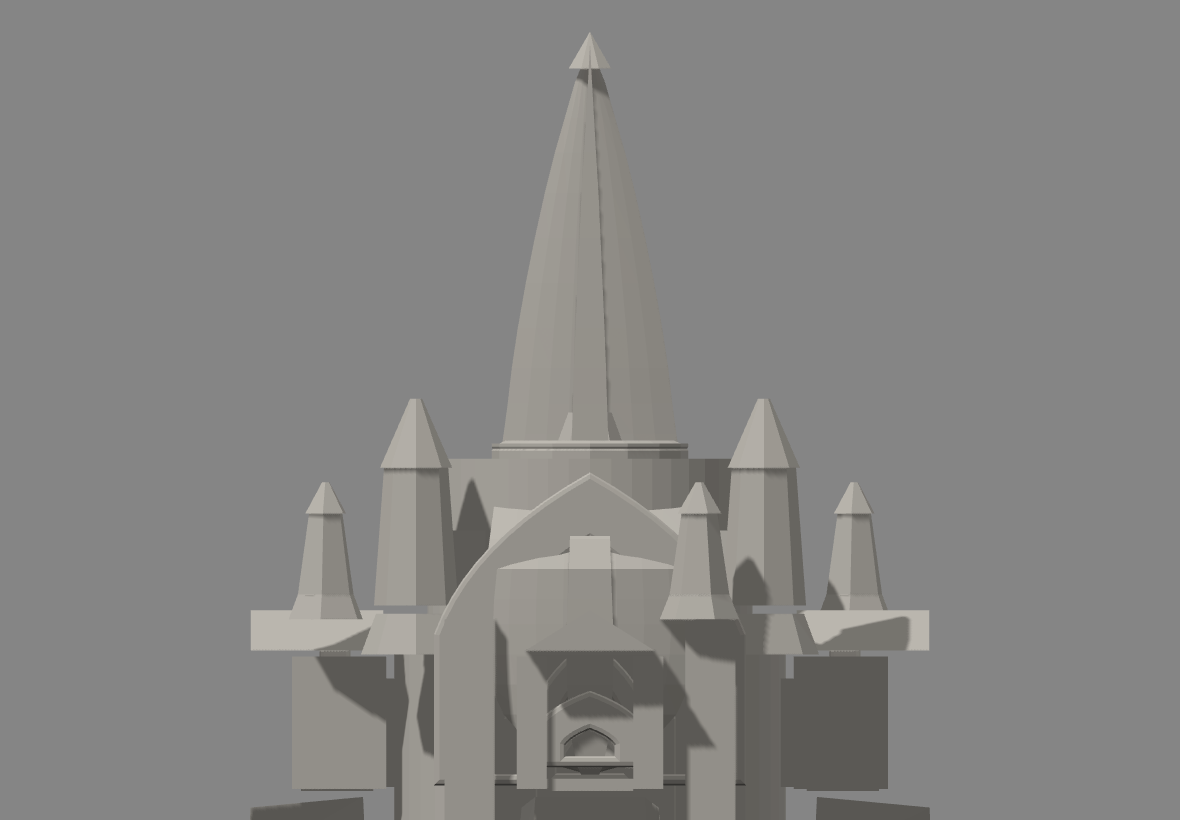
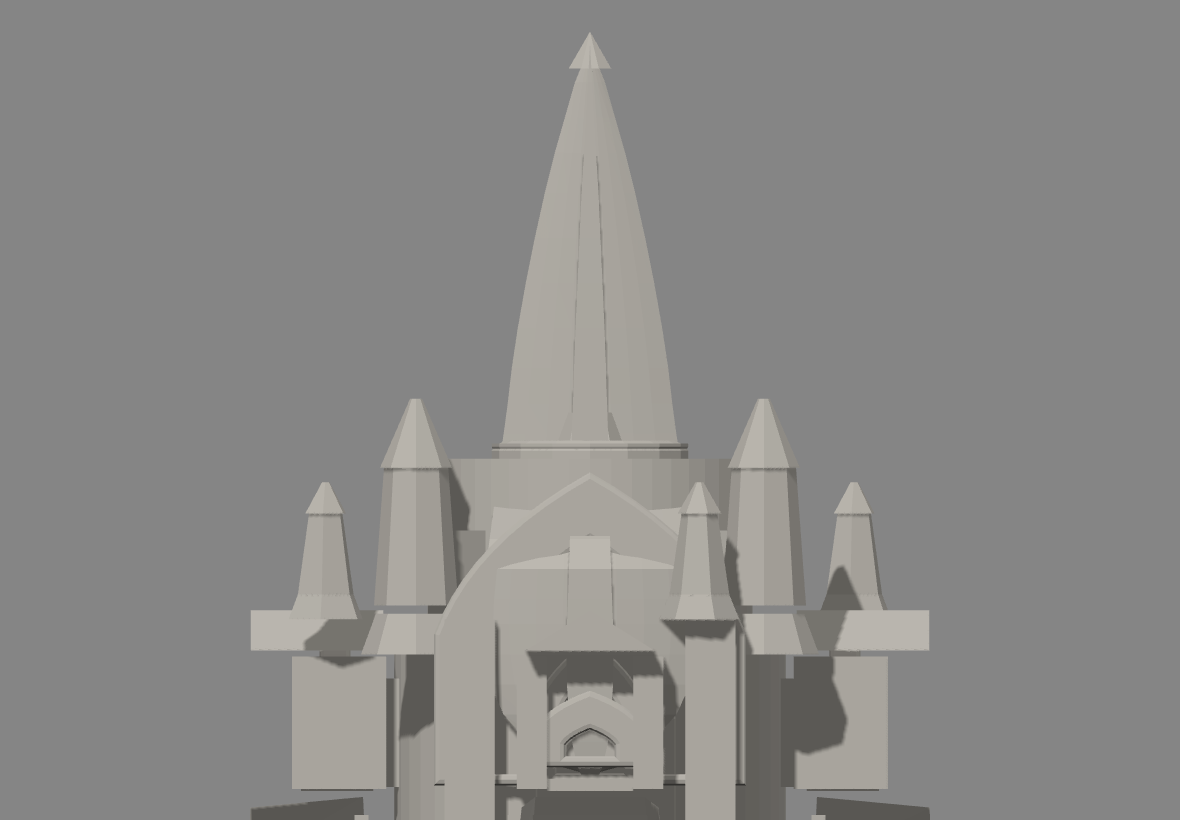
PTC-CLAY-13: step the Sunweaver plinth and south stair

Changed region(s): [[0.3966, 0.061, 0.7932, 1.0], [0.2441, 0.5488, 0.4271, 1.0]]

diff --git a/src/sunweaver-town-center-structural.ts b/src/sunweaver-town-center-structural.ts
@@ -38,11 +38,17 @@ const R = D / 2;
 const PLINTH_TIER_1_BOTTOM_Y = 0.4;
 const PLINTH_TIER_1_TOP_Y = 1.8;
 const PLINTH_TIER_1_BOTTOM_RADIUS = 3.5;
-const PLINTH_TIER_1_TOP_RADIUS = 3.3;
+const PLINTH_TIER_1_TOP_RADIUS = 3.15;
+const PLINTH_TIER_1_LIP_HEIGHT = 0.14;
+const PLINTH_TIER_1_LIP_BOTTOM_RADIUS = 3.36;
+const PLINTH_TIER_1_LIP_TOP_RADIUS = 3.30;
 const PLINTH_TIER_2_BOTTOM_Y = 1.8;
 const PLINTH_TIER_2_TOP_Y = 3.3;
-const PLINTH_TIER_2_BOTTOM_RADIUS = 3.35;
-const PLINTH_TIER_2_TOP_RADIUS = 2.9;
+const PLINTH_TIER_2_BOTTOM_RADIUS = 3.25;
+const PLINTH_TIER_2_TOP_RADIUS = 2.75;
+const PLINTH_TIER_2_LIP_HEIGHT = 0.14;
+const PLINTH_TIER_2_LIP_BOTTOM_RADIUS = 2.90;
+const PLINTH_TIER_2_LIP_TOP_RADIUS = 2.84;
 const LOWER_DRUM_RADIUS = 1.95;
 const LOWER_DRUM_HEIGHT = 2.7;
 const LOWER_DRUM_CENTER_Y = 4.65;
@@ -62,12 +68,36 @@ const PRIMARY_WING_BASE_RADIAL_SCALE = PRIMARY_WING_BASE_RADIAL_DEPTH / PRIMARY_
 const PRIMARY_WING_BASE_CENTER_Y = 3.9;
 const PRIMARY_WING_UPPER_CENTER_Y = 5.2;
 const STAIR_TOP_Y = 3.3;
-const STAIR_TREAD_COUNT = 20;
-const STAIR_TREAD_WIDTH = 2.8;
-const STAIR_TREAD_HEIGHT = STAIR_TOP_Y / STAIR_TREAD_COUNT;
-const STAIR_TREAD_DEPTH = 0.17;
-const STAIR_FRONT_Z = 3.1;
-const STAIR_LAST_Z = 2.0;
+const STAIR_TREAD_COUNT = 14;
+const STAIR_TREAD_WIDTH = 4.4;
+const STAIR_TREAD_RISER = STAIR_TOP_Y / STAIR_TREAD_COUNT;
+const STAIR_TREAD_HEIGHT = 0.20;
+const STAIR_TREAD_DEPTH = 0.35;
+const STAIR_FRONT_Z = 3.80;
+const STAIR_LAST_Z = 2.30;
+const STAIR_TREAD_NOSE_HEIGHT = 0.06;
+const STAIR_TREAD_NOSE_DEPTH = 0.10;
+const STAIR_LANDING_WIDTH = 3.0;
+const STAIR_LANDING_HEIGHT = 0.16;
+const STAIR_LANDING_DEPTH = 0.85;
+const STAIR_LANDING_Z = 2.58;
+const ENTRANCE_COLLAR_SILL_WIDTH = 1.65;
+const ENTRANCE_COLLAR_SILL_HEIGHT = 0.28;
+const ENTRANCE_COLLAR_SILL_DEPTH = 0.46;
+const ENTRANCE_COLLAR_FRAME_BASE_WIDTH = 2.6;
+const ENTRANCE_COLLAR_FRAME_BASE_HEIGHT = 0.32;
+const ENTRANCE_COLLAR_FRAME_BASE_DEPTH = 0.5;
+const ENTRANCE_NOSING_WIDTH = 0.62;
+const ENTRANCE_NOSING_HEIGHT = 0.18;
+const ENTRANCE_NOSING_DEPTH = 0.68;
+const ENTRANCE_NOSING_OFFSET_X = 1.12;
+// The circular footprint governs the plinth and radial modules. The south stair
+// is an intentional forward projection, so expose its live reach in the manifest.
+const STAIR_OUTER_REACH = Math.hypot(
+  STAIR_TREAD_WIDTH * 0.5,
+  STAIR_FRONT_Z + STAIR_TREAD_DEPTH * 0.5 + STAIR_TREAD_NOSE_DEPTH,
+);
+const STAIR_FOOTPRINT_OVERHANG = Math.max(0, STAIR_OUTER_REACH - R);
 const ENERGY_VAULT_OUTER_WIDTH = 3.0;
 const ENERGY_VAULT_OUTER_HEIGHT = 3.0;
 const ENERGY_VAULT_OUTER_BOTTOM_Y = 4.4;
@@ -567,6 +597,9 @@ export function createSunweaverTownCenterStructural(): StructuralTownCenter {
       PRIMARY_WING_BASE_SOURCE_RADIAL_DEPTH,
       0.66,
     ));
+    // A small inner seam ledge keeps the radial lobe separate from the tall
+    // plinth without changing the accepted wing silhouette or reach.
+    source.add(box('wing_base_inner_skirt', [1.64, 0.12, 0.18], [0, 0.42, 0.06]));
     return source;
   }
 
@@ -723,6 +756,15 @@ export function createSunweaverTownCenterStructural(): StructuralTownCenter {
     64,
   );
   stage2.add(plinthTier1); parts.plinth_tier_1 = plinthTier1;
+  const plinthTier1Lip = tapered(
+    'plinth_tier_1_rim_lip',
+    PLINTH_TIER_1_LIP_TOP_RADIUS,
+    PLINTH_TIER_1_LIP_BOTTOM_RADIUS,
+    PLINTH_TIER_1_LIP_HEIGHT,
+    [0, PLINTH_TIER_1_TOP_Y + PLINTH_TIER_1_LIP_HEIGHT * 0.5, 0],
+    64,
+  );
+  stage2.add(plinthTier1Lip); parts.plinth_tier_1_rim_lip = plinthTier1Lip;
   const plinthTier2 = tapered(
     'plinth_tier_2',
     PLINTH_TIER_2_TOP_RADIUS,
@@ -732,6 +774,15 @@ export function createSunweaverTownCenterStructural(): StructuralTownCenter {
     64,
   );
   stage2.add(plinthTier2); parts.plinth_tier_2 = plinthTier2;
+  const plinthTier2Lip = tapered(
+    'plinth_tier_2_rim_lip',
+    PLINTH_TIER_2_LIP_TOP_RADIUS,
+    PLINTH_TIER_2_LIP_BOTTOM_RADIUS,
+    PLINTH_TIER_2_LIP_HEIGHT,
+    [0, PLINTH_TIER_2_TOP_Y + PLINTH_TIER_2_LIP_HEIGHT * 0.5, 0],
+    64,
+  );
+  stage2.add(plinthTier2Lip); parts.plinth_tier_2_rim_lip = plinthTier2Lip;
 
   const lower = cylinder('lower_drum', LOWER_DRUM_RADIUS, LOWER_DRUM_HEIGHT, [0, LOWER_DRUM_CENTER_Y, 0], 48);
   stage2.add(lower); parts.lower_drum = lower;
@@ -751,9 +802,52 @@ export function createSunweaverTownCenterStructural(): StructuralTownCenter {
   const zStep = (STAIR_FRONT_Z - STAIR_LAST_Z) / (STAIR_TREAD_COUNT - 1);
   for (let i = 0; i < STAIR_TREAD_COUNT; i++) {
     const tread = mesh(treadGeometry, `stair_tread_${i + 1}`);
-    tread.position.set(0, STAIR_TREAD_HEIGHT * 0.5 + i * STAIR_TREAD_HEIGHT, STAIR_FRONT_Z - i * zStep);
+    const treadY = i * STAIR_TREAD_RISER;
+    const treadZ = STAIR_FRONT_Z - i * zStep;
+    tread.position.set(0, treadY + STAIR_TREAD_HEIGHT * 0.5, treadZ);
     stair.add(tread);
+    const nose = box(
+      `stair_tread_nose_${i + 1}`,
+      [STAIR_TREAD_WIDTH, STAIR_TREAD_NOSE_HEIGHT, STAIR_TREAD_NOSE_DEPTH],
+      [0, treadY + STAIR_TREAD_HEIGHT - STAIR_TREAD_NOSE_HEIGHT * 0.5, treadZ + STAIR_TREAD_DEPTH * 0.5 + STAIR_TREAD_NOSE_DEPTH * 0.5],
+    );
+    stair.add(nose);
   }
+  const landing = box(
+    'south_stair_landing',
+    [STAIR_LANDING_WIDTH, STAIR_LANDING_HEIGHT, STAIR_LANDING_DEPTH],
+    [0, STAIR_TOP_Y - STAIR_LANDING_HEIGHT * 0.5, STAIR_LANDING_Z],
+  );
+  stair.add(landing);
+  parts.south_stair_landing = landing;
+  const collarSill = box(
+    'entrance_collar_sill',
+    [ENTRANCE_COLLAR_SILL_WIDTH, ENTRANCE_COLLAR_SILL_HEIGHT, ENTRANCE_COLLAR_SILL_DEPTH],
+    [0, STAIR_TOP_Y + ENTRANCE_COLLAR_SILL_HEIGHT * 0.5, STAIR_LANDING_Z + 0.08],
+  );
+  stair.add(collarSill);
+  parts.entrance_collar_sill = collarSill;
+  const collarFrameBase = box(
+    'entrance_collar_frame_base',
+    [ENTRANCE_COLLAR_FRAME_BASE_WIDTH, ENTRANCE_COLLAR_FRAME_BASE_HEIGHT, ENTRANCE_COLLAR_FRAME_BASE_DEPTH],
+    [0, STAIR_TOP_Y + ENTRANCE_COLLAR_SILL_HEIGHT + ENTRANCE_COLLAR_FRAME_BASE_HEIGHT * 0.5, STAIR_LANDING_Z - 0.12],
+  );
+  stair.add(collarFrameBase);
+  parts.entrance_collar_frame_base = collarFrameBase;
+  const entranceNosingY = STAIR_TOP_Y + ENTRANCE_NOSING_HEIGHT * 0.5;
+  const entranceNosingL = box(
+    'entrance_collar_nosing_l',
+    [ENTRANCE_NOSING_WIDTH, ENTRANCE_NOSING_HEIGHT, ENTRANCE_NOSING_DEPTH],
+    [-ENTRANCE_NOSING_OFFSET_X, entranceNosingY, STAIR_LANDING_Z],
+  );
+  const entranceNosingR = box(
+    'entrance_collar_nosing_r',
+    [ENTRANCE_NOSING_WIDTH, ENTRANCE_NOSING_HEIGHT, ENTRANCE_NOSING_DEPTH],
+    [ENTRANCE_NOSING_OFFSET_X, entranceNosingY, STAIR_LANDING_Z],
+  );
+  stair.add(entranceNosingL, entranceNosingR);
+  parts.entrance_collar_nosing_l = entranceNosingL;
+  parts.entrance_collar_nosing_r = entranceNosingR;
   stage2.add(stair); parts.broad_front_stair = stair;
 
   const wingBaseSource = makeWingBaseSource();
@@ -945,6 +1039,15 @@ export function createSunweaverTownCenterStructural(): StructuralTownCenter {
   stage4.add(bannerGroup); parts.banner_mount_source = bannerGroup;
 
   const sourceIds: Record<string, string> = {
+    plinth_tier_1_rim_lip: 'plinth_tier_1_rim_lip',
+    plinth_tier_2_rim_lip: 'plinth_tier_2_rim_lip',
+    broad_front_stair: 'broad_front_stair',
+    stair_tread_nose: 'stair_tread_nose',
+    south_stair_landing: 'south_stair_landing',
+    entrance_collar_sill: 'entrance_collar_sill',
+    entrance_collar_frame_base: 'entrance_collar_frame_base',
+    entrance_collar_nosing: 'entrance_collar_nosing',
+    primary_wing_inner_skirt: 'primary_wing_inner_skirt',
     primary_wing_source: 'primary_wing_source',
     primary_wing_base_source: 'primary_wing_base_source',
     primary_wing_upper_source: 'primary_wing_upper_source',
@@ -970,14 +1073,25 @@ export function createSunweaverTownCenterStructural(): StructuralTownCenter {
     cageArchProfile: 'solid-rib',
     normalizedDimensions: {
       footprintDiameter: 1,
+      footprintRadius: R / D,
+      plinthMaxRadius: R / D,
+      stairOuterReach: STAIR_OUTER_REACH / D,
+      stairFootprintOverhang: STAIR_FOOTPRINT_OVERHANG / D,
+      stairProjectionExemptFromPlinthFootprint: 1,
       plinthTier1BottomY: PLINTH_TIER_1_BOTTOM_Y / D,
       plinthTier1TopY: PLINTH_TIER_1_TOP_Y / D,
       plinthTier1BottomRadius: PLINTH_TIER_1_BOTTOM_RADIUS / D,
       plinthTier1TopRadius: PLINTH_TIER_1_TOP_RADIUS / D,
+      plinthTier1LipHeight: PLINTH_TIER_1_LIP_HEIGHT / D,
+      plinthTier1LipBottomRadius: PLINTH_TIER_1_LIP_BOTTOM_RADIUS / D,
+      plinthTier1LipTopRadius: PLINTH_TIER_1_LIP_TOP_RADIUS / D,
       plinthTier2BottomY: PLINTH_TIER_2_BOTTOM_Y / D,
       plinthTier2TopY: PLINTH_TIER_2_TOP_Y / D,
       plinthTier2BottomRadius: PLINTH_TIER_2_BOTTOM_RADIUS / D,
       plinthTier2TopRadius: PLINTH_TIER_2_TOP_RADIUS / D,
+      plinthTier2LipHeight: PLINTH_TIER_2_LIP_HEIGHT / D,
+      plinthTier2LipBottomRadius: PLINTH_TIER_2_LIP_BOTTOM_RADIUS / D,
+      plinthTier2LipTopRadius: PLINTH_TIER_2_LIP_TOP_RADIUS / D,
       lowerDrumRadius: LOWER_DRUM_RADIUS / D,
       lowerDrumHeight: LOWER_DRUM_HEIGHT / D,
       upperDrumRadius: UPPER_DRUM_RADIUS / D,
@@ -1000,7 +1114,29 @@ export function createSunweaverTownCenterStructural(): StructuralTownCenter {
       entranceWidth: 1.6 / D,
       entranceBayBaseY: PLINTH_TIER_2_TOP_Y / D,
       stairTreadCount: STAIR_TREAD_COUNT,
+      stairTreadWidth: STAIR_TREAD_WIDTH / D,
+      stairTreadHeight: STAIR_TREAD_HEIGHT / D,
+      stairRiser: STAIR_TREAD_RISER / D,
+      stairTreadDepth: STAIR_TREAD_DEPTH / D,
+      stairTreadNoseHeight: STAIR_TREAD_NOSE_HEIGHT / D,
+      stairTreadNoseDepth: STAIR_TREAD_NOSE_DEPTH / D,
+      stairFrontZ: STAIR_FRONT_Z / D,
+      stairLastZ: STAIR_LAST_Z / D,
       stairTopY: STAIR_TOP_Y / D,
+      stairLandingWidth: STAIR_LANDING_WIDTH / D,
+      stairLandingHeight: STAIR_LANDING_HEIGHT / D,
+      stairLandingDepth: STAIR_LANDING_DEPTH / D,
+      stairLandingZ: STAIR_LANDING_Z / D,
+      entranceCollarSillWidth: ENTRANCE_COLLAR_SILL_WIDTH / D,
+      entranceCollarSillHeight: ENTRANCE_COLLAR_SILL_HEIGHT / D,
+      entranceCollarSillDepth: ENTRANCE_COLLAR_SILL_DEPTH / D,
+      entranceCollarFrameBaseWidth: ENTRANCE_COLLAR_FRAME_BASE_WIDTH / D,
+      entranceCollarFrameBaseHeight: ENTRANCE_COLLAR_FRAME_BASE_HEIGHT / D,
+      entranceCollarFrameBaseDepth: ENTRANCE_COLLAR_FRAME_BASE_DEPTH / D,
+      entranceNosingWidth: ENTRANCE_NOSING_WIDTH / D,
+      entranceNosingHeight: ENTRANCE_NOSING_HEIGHT / D,
+      entranceNosingDepth: ENTRANCE_NOSING_DEPTH / D,
+      entranceNosingOffsetX: ENTRANCE_NOSING_OFFSET_X / D,
       energyVaultOuterWidth: ENERGY_VAULT_OUTER_WIDTH / D,
       energyVaultOuterHeight: ENERGY_VAULT_OUTER_HEIGHT / D,
       energyVaultOuterBottomY: ENERGY_VAULT_OUTER_BOTTOM_Y / D,
@@ -1072,12 +1208,20 @@ export function createSunweaverTownCenterStructural(): StructuralTownCenter {
       foundation_disc: 1,
       plinth_tier_1: 1,
       plinth_tier_2: 1,
+      plinth_tier_1_rim_lip: 1,
+      plinth_tier_2_rim_lip: 1,
       lower_drum: 1,
       upper_drum: 1,
       entrance_bay: 1,
       broad_front_stair: STAIR_TREAD_COUNT,
+      stair_tread_nose: STAIR_TREAD_COUNT,
+      south_stair_landing: 1,
+      entrance_collar_sill: 1,
+      entrance_collar_frame_base: 1,
+      entrance_collar_nosing: 2,
       primary_wing_source: 4,
       primary_wing_base_source: 4,
+      primary_wing_inner_skirt: 4,
       primary_wing_upper_source: 4,
       secondary_buttress_source: 4,
       side_crystal_tower_source: 4,
@@ -1108,11 +1252,18 @@ export function createSunweaverTownCenterStructural(): StructuralTownCenter {
     worldSpaceModuleCenters: {
       foundation_disc: [0, 0.14, 0],
       plinth_tier_1: [0, 1.1, 0],
+      plinth_tier_1_rim_lip: [0, PLINTH_TIER_1_TOP_Y + PLINTH_TIER_1_LIP_HEIGHT * 0.5, 0],
       plinth_tier_2: [0, 2.55, 0],
+      plinth_tier_2_rim_lip: [0, PLINTH_TIER_2_TOP_Y + PLINTH_TIER_2_LIP_HEIGHT * 0.5, 0],
       lower_drum: [0, LOWER_DRUM_CENTER_Y, 0],
       upper_drum: [0, UPPER_DRUM_CENTER_Y, 0],
       entrance_bay: [0, 4.8, 2.1],
       broad_front_stair: [0, STAIR_TOP_Y * 0.5, (STAIR_FRONT_Z + STAIR_LAST_Z) * 0.5],
+      south_stair_landing: [0, STAIR_TOP_Y - STAIR_LANDING_HEIGHT * 0.5, STAIR_LANDING_Z],
+      entrance_collar_sill: [0, STAIR_TOP_Y + ENTRANCE_COLLAR_SILL_HEIGHT * 0.5, STAIR_LANDING_Z + 0.08],
+      entrance_collar_frame_base: [0, STAIR_TOP_Y + ENTRANCE_COLLAR_SILL_HEIGHT + ENTRANCE_COLLAR_FRAME_BASE_HEIGHT * 0.5, STAIR_LANDING_Z - 0.12],
+      entrance_collar_nosing_l: [-ENTRANCE_NOSING_OFFSET_X, STAIR_TOP_Y + ENTRANCE_NOSING_HEIGHT * 0.5, STAIR_LANDING_Z],
+      entrance_collar_nosing_r: [ENTRANCE_NOSING_OFFSET_X, STAIR_TOP_Y + ENTRANCE_NOSING_HEIGHT * 0.5, STAIR_LANDING_Z],
       primary_wings: [0, PRIMARY_WING_BASE_CENTER_Y, 0],
       primary_wing_bases: [0, PRIMARY_WING_BASE_CENTER_Y, 0],
       primary_wing_uppers: [0, PRIMARY_WING_UPPER_CENTER_Y, 0],

diff --git a/docs/PTC_CLAY_13_STAIR_PLINTH.md b/docs/PTC_CLAY_13_STAIR_PLINTH.md
@@ -1,0 +1,34 @@
+# PTC-CLAY-13 — South Stair + Plinth Legibility (kill the "blank conical plinth")
+
+## Single visual concern
+
+The crown gate (a) now PASSES (unified lit jewel-column, round 12). The remaining grounded gap (critic on the post-light frames): gate (d) — "the lower south/front assembly is a blank TWO-TIER CONICAL PLINTH; it lacks the broad stepped stair and entrance-collar hierarchy." The plinth reads as a smooth cone in the front view, not as architecture; the south stair does not read as a broad stepped flight. Related: gate (c) "wing lobes unclear" — the wings sit just above the plinth and the flat dark plinth swallows them.
+
+Do not touch the crown, talon cage, vault jewel, upper drums, towers, or proportions. This round is the BASE/front assembly only.
+
+## Required change (base + plinth + stair only, in `src/sunweaver-town-center-structural.ts`)
+
+1. **Plinth tiers read as steps, not a cone.** Give each of the two plinth tiers a clear architectural rim lip: thin raised edge rings at the top of tier-1 (Y≈1.8) and tier-2 (Y≈3.3), each ring standing ~0.12-0.18 proud and extending slightly wider than the tier body below it (a proper step nosing). Increase the tier taper so the silhouette shows distinct step shelves (tier-1 outer r 3.5 top r 3.15; tier-2 outer r 3.25 top r 2.75), creating a visible two-step pyramid-of-base rather than a single cone.
+2. **Broad south stair reads as a stepped flight.** On the south face, replace/host a broad stepped flight from the ground up to the plinth top landing: total stair width ~4.2-4.6 units (broad), tread depth ~0.32-0.38, riser ~0.22-0.26, so it reaches the tier-2 top (Y≈3.3) and lands on a visible platform in front of the entrance. The stair must occupy a clearly visible wedge of the front silhouette (bright lit treads, visible side edges) — NOT blend into the plinth face. Keep exactly ONE stair, no rear stair.
+3. **Entrance-collar hierarchy.** At the plinth-top landing, make the entrance read clearly: the vault frame's base + the small dark doorway plus flanking steps/nosing must read as a coherent entrance collar (entry steps fanning to the frame base). The small doorway stays ~1.0 x 0.6 and subordinate, but aligned with the stair centerline.
+4. **Wing legibility.** Do not redesign the wings. After the plinth/light changes, VERIFY the four wings still read as distinct radial lobes above the plinth (they sit at wing-base Y≈3.9). If the tall bright plinth still obscures them, allow adding a thin horizontal ledge/skirting band on the inner face of each wing where it meets the plinth (small chamfer ~0.1) — placement only, no redesign. Report whether wings read as lobes in the front view.
+
+## Constraints
+
+- Gate (a) unified column + (b) talon cage + (e) footprint/collar must STILL pass — do not touch crown/vault/talons.
+- Gates (c) wings and (d) stair must pass this round (targets: four clear radial lobes with gaps vs diagonal towers; ONE broad stepped south stair, no rear stair).
+- 4 of everything; neutral clay #B8B4AC; runtime API/stages unchanged; footprint 7.0; plinth stays within the building footprint (max r 3.5); nothing above Y12.2; update manifest honestly.
+
+## Verification
+
+1. `npx tsc --noEmit`
+2. `npm run build`
+3. `npx vite build --config vite.structural.config.ts`
+4. Structural vite server on 5174 (background), curl 200, `node scripts/town-center-structural-shots.mjs` — 0 errors, no black/empty, gameplay distinct, fresh qa/report.json. Kill server after.
+5. FPS probe on front-3q beauty view: p99 < 8 ms.
+6. crown-geometry-probe.mjs: talon checks + luminance gates + no-shelf check stay PASS; ALSO run a new stair-read check if feasible (count lit treads in the south stair wedge on the front capture; report the count and the stair wedge's vertical extent vs the plinth).
+7. Fresh qa/report.json integrity; no rear stair; footprint 7.0; errors [].
+
+## Commit
+
+Commit only `docs/PTC_CLAY_13_STAIR_PLINTH.md`, `src/sunweaver-town-center-structural.ts`, and capture/report files that must change, prefix `PTC-CLAY-13`. No unrelated files. Do not touch `src/sim.ts` / `src/engine.ts`. Do not self-approve visually.
